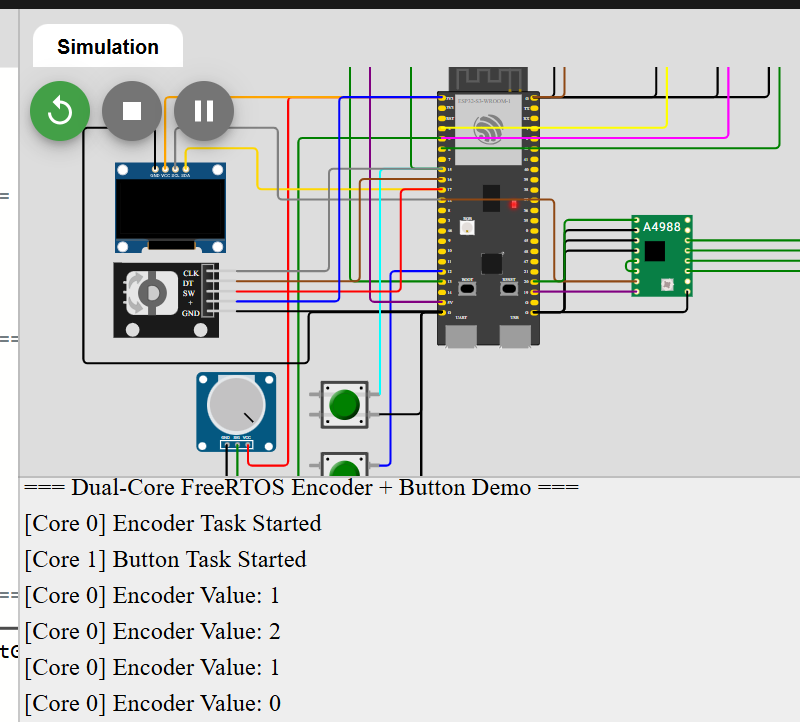
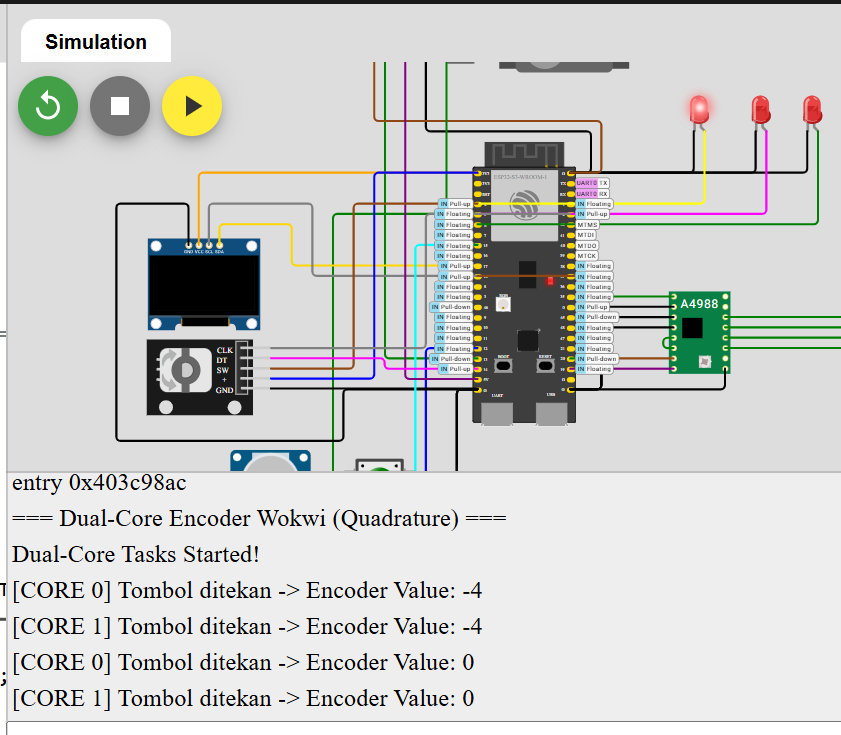
upload

diff --git a/ROTARY ENCODER/README.md b/ROTARY ENCODER/README.md
@@ -10,37 +10,40 @@ Percobaan ini menggunakan ESP32-S3 dual-core untuk membaca rotary encoder dan pu
 🛠 Hardware Setup
 | Komponen           | Pin ESP32-S3 | Mode          |
 | ------------------ | ------------ | ------------- |
-| Rotary Encoder CLK | GPIO 15      | Input Pull-Up |
-| Rotary Encoder DT  | GPIO 16      | Input Pull-Up |
-| Rotary Encoder SW  | GPIO 17      | Input Pull-Up |
+| Rotary Encoder CLK | GPIO 2       | Input Pull-Up |
+| Rotary Encoder DT  | GPIO 14      | Input Pull-Up |
+| Rotary Encoder SW  | GPIO 4       | Input Pull-Up |
 | Power              | 3.3V & GND   | —             |
 
 📎 Koneksi Encoder
 | Encoder Pin | Fungsi      | ESP32-S3 Pin |
 | ----------- | ----------- | ------------ |
-| CLK         | Channel A   | GPIO 15      |
-| DT          | Channel B   | GPIO 16      |
-| SW          | Push Button | GPIO 17      |
+| CLK         | Channel A   | GPIO 2       |
+| DT          | Channel B   | GPIO 14      |
+| SW          | Push Button | GPIO 4       |
 | +           | VCC         | 3.3V         |
 | GND         | Ground      | GND          |
 
 🧠 Cara Kerja Sistem
-Core 0 membaca sinyal rotary encoder:
-Putar CW → nilai meningkat
-Putar CCW → nilai menurun
-Core 1 memonitor tombol encoder
-Tekan tombol → nilai bertambah
-Setiap perubahan ditampilkan pada Serial Monitor secara realtime
+Core 0 membaca sinyal rotary encoder menggunakan metode full quadrature:
+    Putar CW → nilai meningkat
+    Putar CCW → nilai menurun
+Core 1 memonitor tombol push (SW encoder):
+Tekan tombol → menampilkan nilai encoder di Serial Monitor
+Setiap perubahan ditampilkan di Serial Monitor secara realtime.
 
 ▶ Langkah Percobaan
-| No | Langkah              | Hasil yang Diharapkan                |
-| -: | -------------------- | ------------------------------------ |
-|  1 | Upload program       | Serial tampilkan pesan task start    |
-|  2 | Putar encoder CW/CCW | Nilai bertambah / berkurang          |
-|  3 | Tekan tombol         | Nilai bertambah                      |
-|  4 | Buka Serial Monitor  | Terlihat output dari Core 0 & Core 1 |
+| No | Langkah              | Hasil yang Diharapkan             |
+| -: | -------------------- | --------------------------------- |
+|  1 | Upload program       | Serial tampilkan pesan task start |
+|  2 | Putar encoder CW/CCW | Nilai bertambah / berkurang       |
+|  3 | Tekan tombol         | Nilai ditampilkan oleh Core 0 & 1 |
+|  4 | Buka Serial Monitor  | Terlihat output dari kedua core   |
 
 🎥 Video Demo
 Gdrive: https://drive.google.com/drive/folders/1xHsLUh8lWJG1qjUEWygBUBDPuTShIQ0_?usp=sharing
 
+Core 0
+![alt text](image-1.png)
+Core 1
 ![alt text](image.png)

diff --git a/PUSH BUTTON/README.md b/PUSH BUTTON/README.md
@@ -2,27 +2,31 @@ Dual Core PushButton
 
 📌 Deskripsi
 Percobaan ini menunjukkan bagaimana ESP32-S3 menangani input dan output secara paralel menggunakan dua core:
-| Core   | Task       | Fungsi                                                |
-| ------ | ---------- | ----------------------------------------------------- |
-| Core 0 | TaskButton | Membaca tombol + debounce                             |
-| Core 1 | TaskLED    | Menyalakan/mematikan LED berdasarkan flag dari Core 0 |
+| Core   | Task            | Fungsi                        |
+| ------ | --------------- | ----------------------------- |
+| Core 0 | TaskButtonCore0 | Membaca tombol 1 + toggle LED |
+| Core 1 | TaskButtonCore1 | Membaca tombol 2 + toggle LED |
 
 🛠 Hardware Setup
-| Komponen    | Pin ESP32-S3 | Mode            |
-| ----------- | ------------ | --------------- |
-| Push Button | GPIO 15      | Input (Pull-up) |
-| LED         | GPIO 5       | Output          |
-
+| Komponen      | Pin ESP32-S3 | Mode            |
+| ------------- | ------------ | --------------- |
+| Push Button 1 | GPIO 15      | Input (Pull-up) |
+| Push Button 2 | GPIO 12      | Input (Pull-up) |
+| LED           | GPIO 5       | Output          |
 
 ▶ Langkah Percobaan
-| No | Langkah                    | Hasil yang Diharapkan                        |
-| -: | -------------------------- | -------------------------------------------- |
-|  1 | Upload program ke ESP32-S3 | Serial menampilkan “task started”            |
-|  2 | Tekan tombol               | Core 0 mendeteksi input & debounce           |
-|  3 | Amati LED                  | LED toggle ON/OFF setiap kali tombol ditekan |
-|  4 | Cek Serial Monitor         | Log dari **Core 0** & **Core 1** muncul      |
+| No | Langkah                    | Hasil yang Diharapkan                         |
+| -: | -------------------------- | --------------------------------------------- |
+|  1 | Upload program ke ESP32-S3 | Serial menampilkan “task started”             |
+|  2 | Tekan tombol 1             | Core 0 mendeteksi input & toggle LED          |
+|  3 | Tekan tombol 2             | Core 1 mendeteksi input & toggle LED          |
+|  4 | Amati LED                  | LED menyala/mati sesuai tombol yang ditekan   |
+|  5 | Cek Serial Monitor         | Log menampilkan core mana yang menyalakan LED |
 
 🎥 Video Demo
 Gdrive: https://drive.google.com/drive/folders/1l86TyPkNUZNA6bz5GUtfGsD7UbBDtODY?usp=sharing 
 
-![alt text](image.png)
+Core 0
+![alt text](image-1.png)
+Core 1
+![alt text](image-2.png)

diff --git a/SERVO/README.md b/SERVO/README.md
@@ -36,4 +36,7 @@ Task berjalan parallel sehingga servo tampak bergerak maju-mundur tidak linear
 🎥 Video Demo
 Gdrive: https://drive.google.com/drive/folders/1xxA0_UCxWb_t9nFO6QF-OKTMf1O4tiRF?usp=sharing 
 
-![alt text](image.png)
+Core 0
+![alt text](image-1.png)
+Core 1
+![alt text](image-2.png)

diff --git a/BUZZER/README.md b/BUZZER/README.md
@@ -26,4 +26,8 @@ Percobaan ini mendemonstrasikan penggunaan dua core ESP32-S3 untuk menghasilkan 
 🎥 Video Demo
 Gdrive: https://drive.google.com/drive/folders/1K_wdP9ttsc-NksF2BDL43nwUQEU0aomJ?usp=sharing
 
+Core 1
 ![alt text](image.png)
+
+Core 0
+![alt text](image-1.png)

diff --git a/OLED/README.md b/OLED/README.md
@@ -42,4 +42,7 @@ Task menampilkan teks secara bergantian (2s vs 3s interval)
 🎥 Video Demo
 Gdrive: https://drive.google.com/drive/folders/1jcI5MgsBtEnXx9m1d-IOBRYAX6cneeiD?usp=sharing 
 
+Core 0
 ![alt text](image.png)
+Core 1
+![alt text](image-1.png)

diff --git a/POTENSIOMETER/README.md b/POTENSIOMETER/README.md
@@ -33,4 +33,6 @@ Percobaan ini menunjukkan bagaimana ESP32-S3 menjalankan dua task secara paralel
 🎥 Video Demo
 Gdrive: https://drive.google.com/drive/folders/1-IQlojRIvyesS60SiTbj_doWpA2G7N0t?usp=sharing
 
+Core 0
 ![alt text](image.png)
+Core 1

diff --git a/LED/README.md b/LED/README.md
@@ -27,4 +27,7 @@ Program ini memiliki 2 task:
 🎥 Video Demo
 Gdrive: https://drive.google.com/drive/folders/1zJugp3nYugUQ3zeaDMXNZDKSGXHxg3_M?usp=sharing
 
+Core 1
 ![alt text](image.png)
+Core 0
+![alt text](image-1.png)
